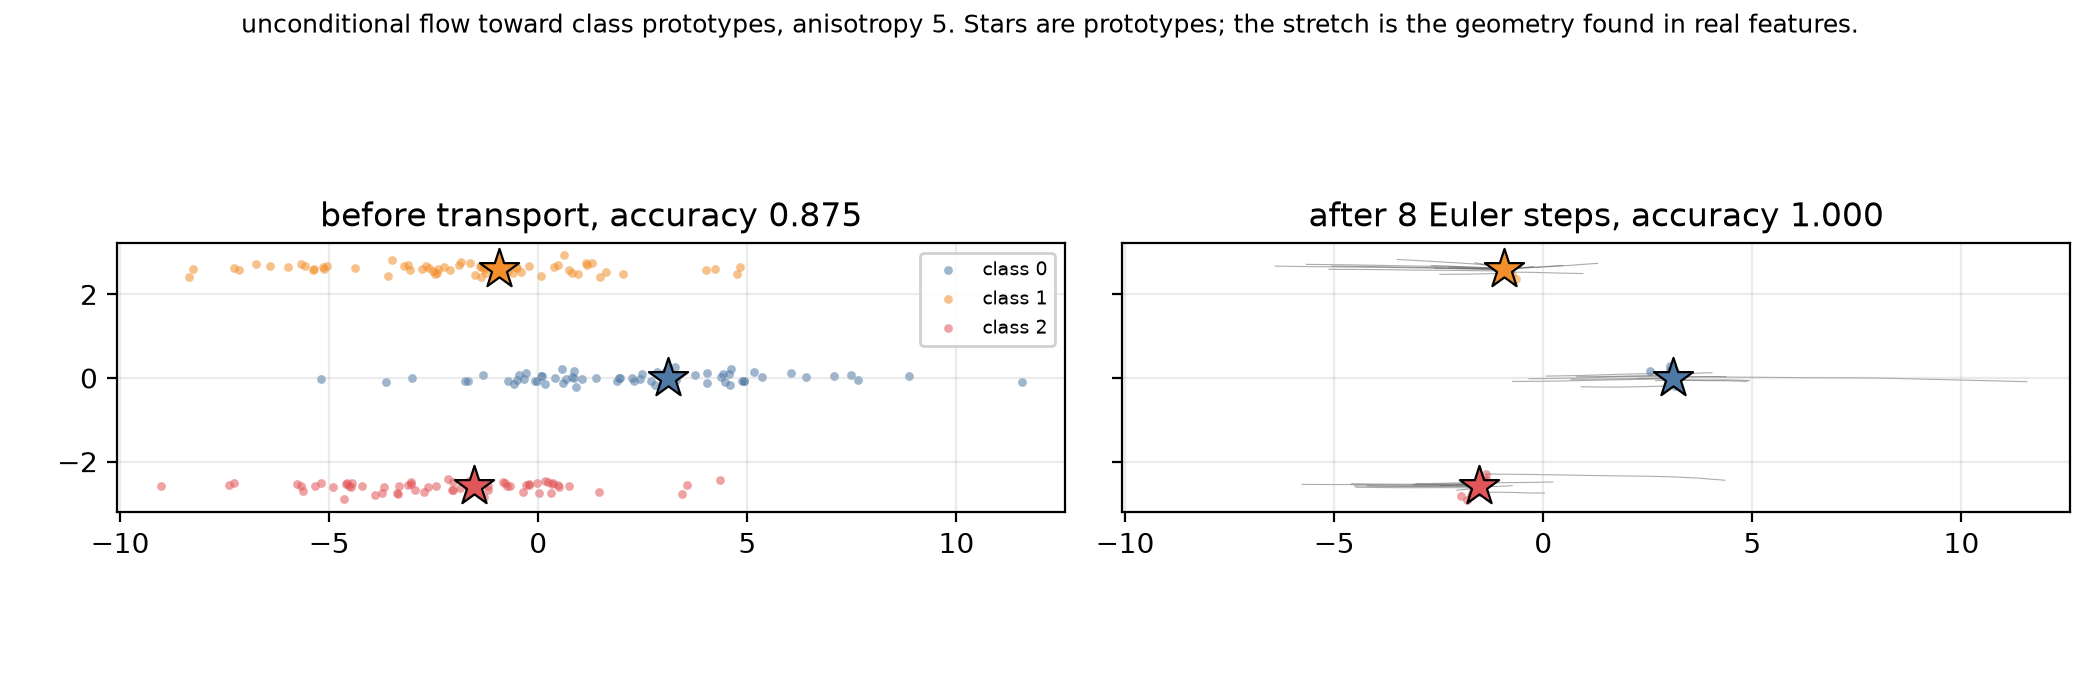
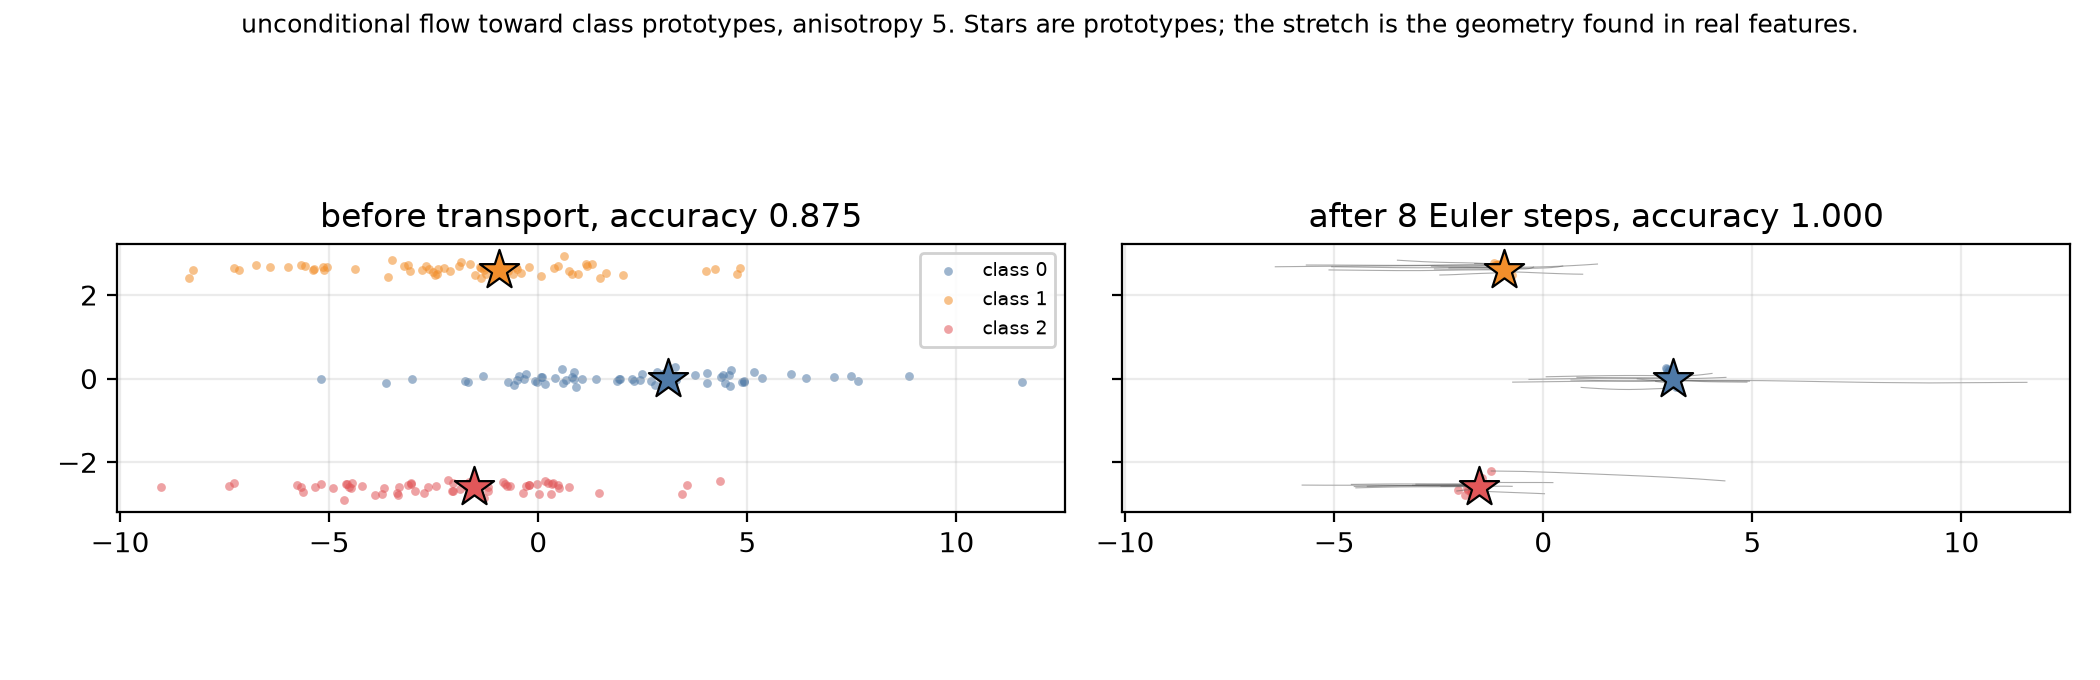
test: the anisotropic toy through the standard FM head
Phase 7 asserted the anisotropy recovery on the bare field. The same two
claims now run through the head, which is what the grid will run: on the
stretched classes transport beats the prototype rule, and on the round
control, where the prototype rule is already perfect, it ties rather than
helping. Without the control a passing stretched case could be read as
transport helping everywhere.

train_toy_field now delegates to train_standard_field instead of keeping
a second copy of the training loop; the toy is only worth running if it
runs the code the heads run. The toy figure changes because the toy
switched to scalar time conditioning with the velocity net, and it
regenerates byte-identically from its seed as before.

diff --git a/tests/unit/test_fm_standard_head.py b/tests/unit/test_fm_standard_head.py
@@ -14,6 +14,7 @@ import pytest
 import torch
 from test_head_contract import make_config, run_head_battery, separable_scenario
 
+from fm_fewshot.services.flow.toy import make_toy_problem
 from fm_fewshot.services.flow.training.standard import train_standard_field, transport
 from fm_fewshot.services.heads.fm_standard import FmStandardHead
 from fm_fewshot.services.heads.prototype import PrototypeHead
@@ -205,3 +206,48 @@ class TestTransportGeometry:
         assert states.shape == (5, query_x.shape[0], query_x.shape[1])
         assert torch.equal(states[0], query_x)
         assert torch.equal(states[-1], head.transport(query_x))
+
+
+class TestAnisotropicToy:
+    """The Phase 7 toy, now driven through the head rather than the bare field.
+
+    The stretched regime is the one that says something: classes that are
+    linearly separable but not compact around their means, which is the
+    geometry the Stage 1 diagnosis found in real DINOv2 features. The round
+    control is there so a passing stretched case cannot be read as transport
+    helping everywhere.
+    """
+
+    @staticmethod
+    def _accuracy(head, x: torch.Tensor, y: torch.Tensor) -> float:
+        return float((head.predict(x).argmax(dim=1) == y).float().mean())
+
+    def _both_heads(self, anisotropy: float):
+        problem = make_toy_problem(seed=0, anisotropy=anisotropy)
+        baseline = PrototypeHead(n_classes=problem.n_classes)
+        baseline.fit(problem.train_x, problem.train_y, problem.test_x, problem.test_y)
+        head = FmStandardHead(
+            problem.n_classes,
+            sample_steps=4,
+            n_train_steps=800,
+            batch_size=128,
+            lr=1e-2,
+            hidden_dims=(64, 64),
+            init_seed=0,
+        )
+        head.fit(problem.train_x, problem.train_y, problem.test_x, problem.test_y)
+        return problem, baseline, head
+
+    def test_transport_beats_the_prototype_rule_on_stretched_classes(self) -> None:
+        problem, baseline, head = self._both_heads(anisotropy=3.0)
+        before = self._accuracy(baseline, problem.test_x, problem.test_y)
+        after = self._accuracy(head, problem.test_x, problem.test_y)
+        assert before < 0.99, f"toy is too easy to be informative: {before}"
+        assert after > before
+
+    def test_transport_has_nothing_to_recover_on_round_classes(self) -> None:
+        problem, baseline, head = self._both_heads(anisotropy=1.0)
+        before = self._accuracy(baseline, problem.test_x, problem.test_y)
+        after = self._accuracy(head, problem.test_x, problem.test_y)
+        assert before > 0.99, f"the control should already be solved: {before}"
+        assert after == before

diff --git a/src/fm_fewshot/services/flow/toy.py b/src/fm_fewshot/services/flow/toy.py
@@ -17,7 +17,7 @@ from dataclasses import dataclass
 import torch
 from torch import Tensor
 
-from fm_fewshot.services.flow.objective import cfm_loss
+from fm_fewshot.services.flow.training.standard import train_standard_field
 from fm_fewshot.services.flow.velocity_mlp import VelocityMLP
 
 
@@ -77,28 +77,21 @@ def train_toy_field(
     lr: float = 1e-2,
     hidden_dims: tuple[int, ...] = (64, 64),
 ) -> VelocityMLP:
-    """Standard CFM training on (example, its class prototype) pairs."""
-    # Scalar conditioning, explicitly: the toy is the smallest thing that runs
-    # what the Stage 2 heads run (ADR-019).
-    field = VelocityMLP(
-        dim=2, hidden_dims=hidden_dims, time_conditioning="scalar", seed=seed
+    """Standard CFM training on (example, its class prototype) pairs.
+
+    Delegates to the Stage 2 trainer rather than keeping a second copy of it.
+    The toy is only worth running if it runs the same code the heads run.
+    """
+    field, _ = train_standard_field(
+        problem.train_x,
+        problem.prototypes[problem.train_y],
+        hidden_dims=hidden_dims,
+        time_conditioning="scalar",
+        n_train_steps=steps,
+        batch_size=batch_size,
+        lr=lr,
+        init_seed=seed,
     )
-    if steps == 0:
-        return field
-
-    generator = torch.Generator().manual_seed(seed)
-    optimizer = torch.optim.Adam(field.parameters(), lr=lr)
-    x1_all = problem.prototypes[problem.train_y]
-
-    for _ in range(steps):
-        rows = torch.randint(
-            0, problem.train_x.shape[0], (batch_size,), generator=generator
-        )
-        t = torch.rand(batch_size, generator=generator)
-        loss = cfm_loss(field, problem.train_x[rows], x1_all[rows], t)
-        optimizer.zero_grad()
-        loss.backward()
-        optimizer.step()
     return field
 
 
